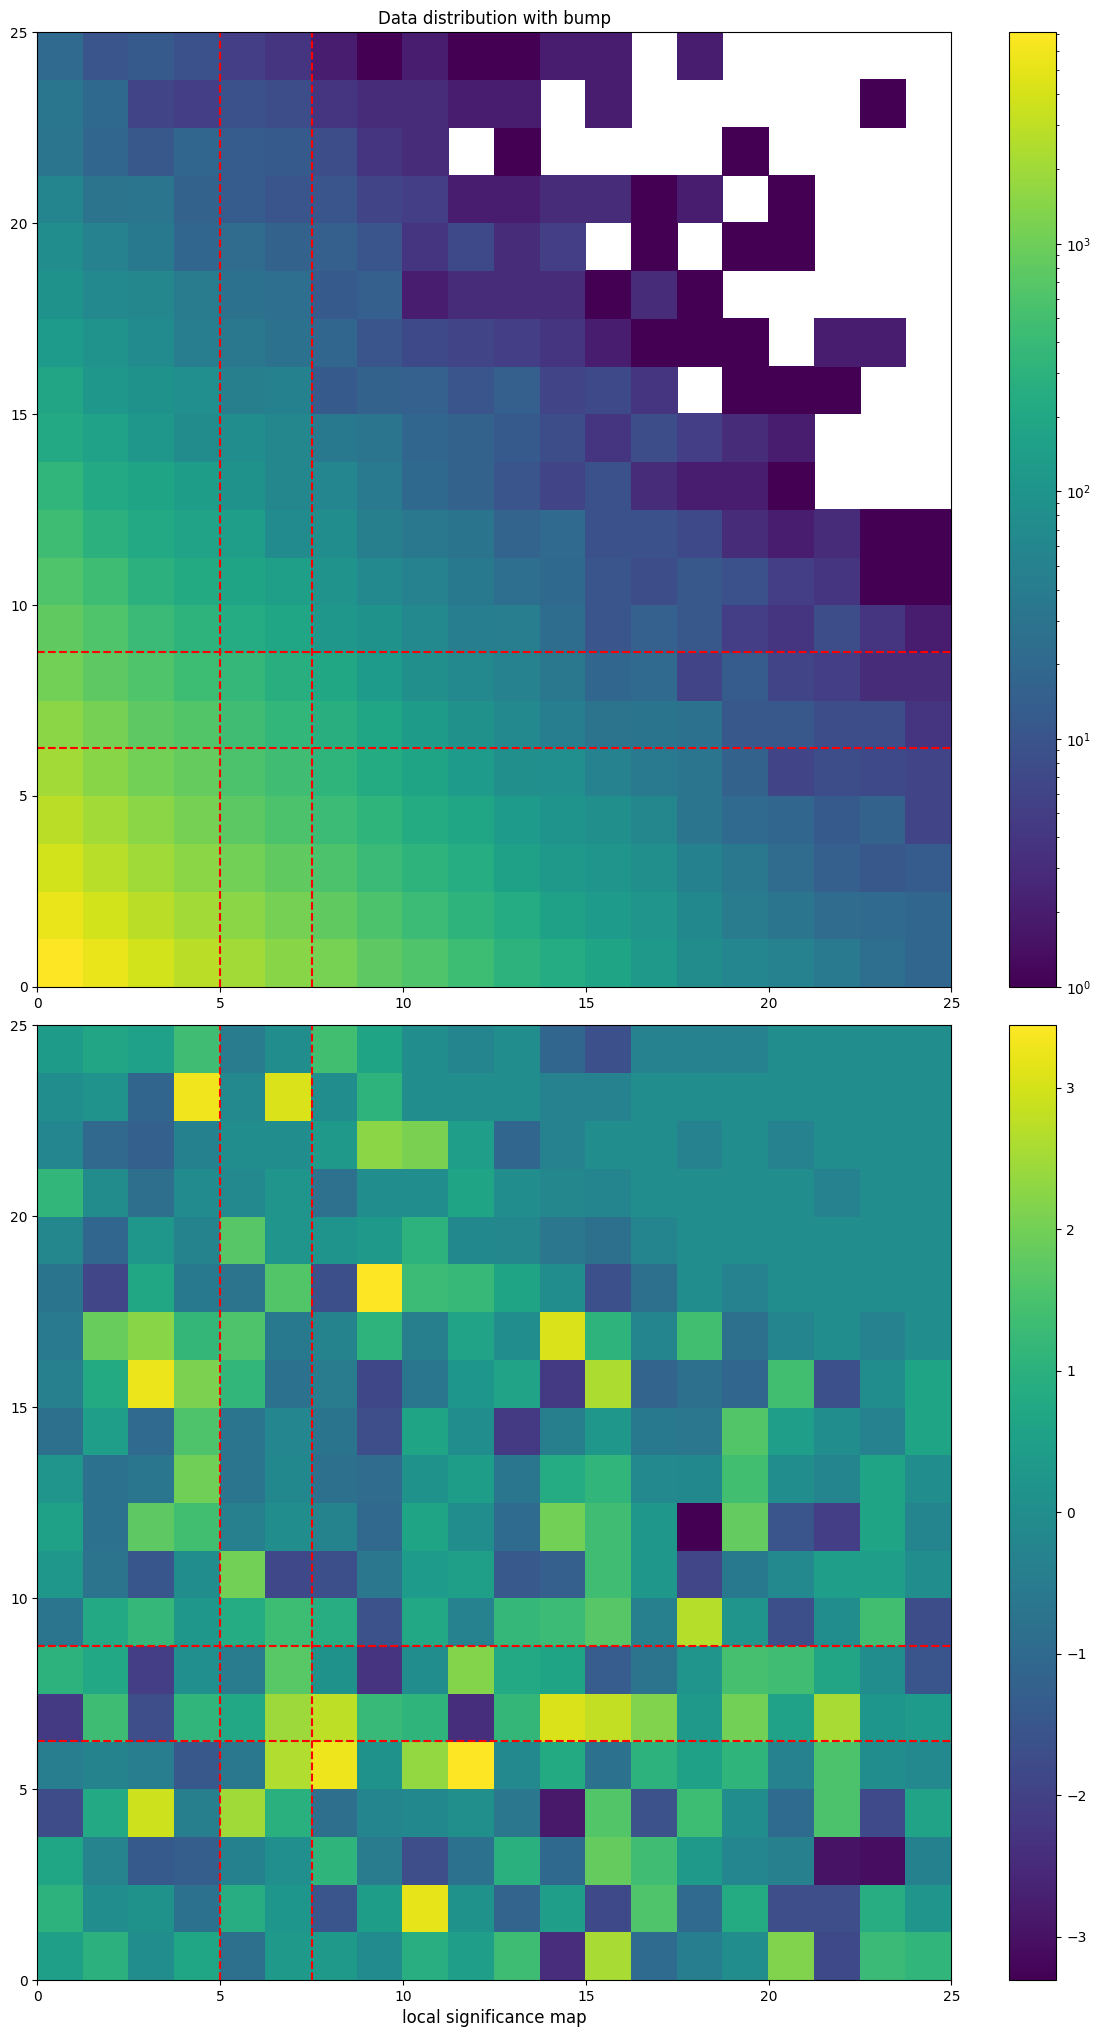
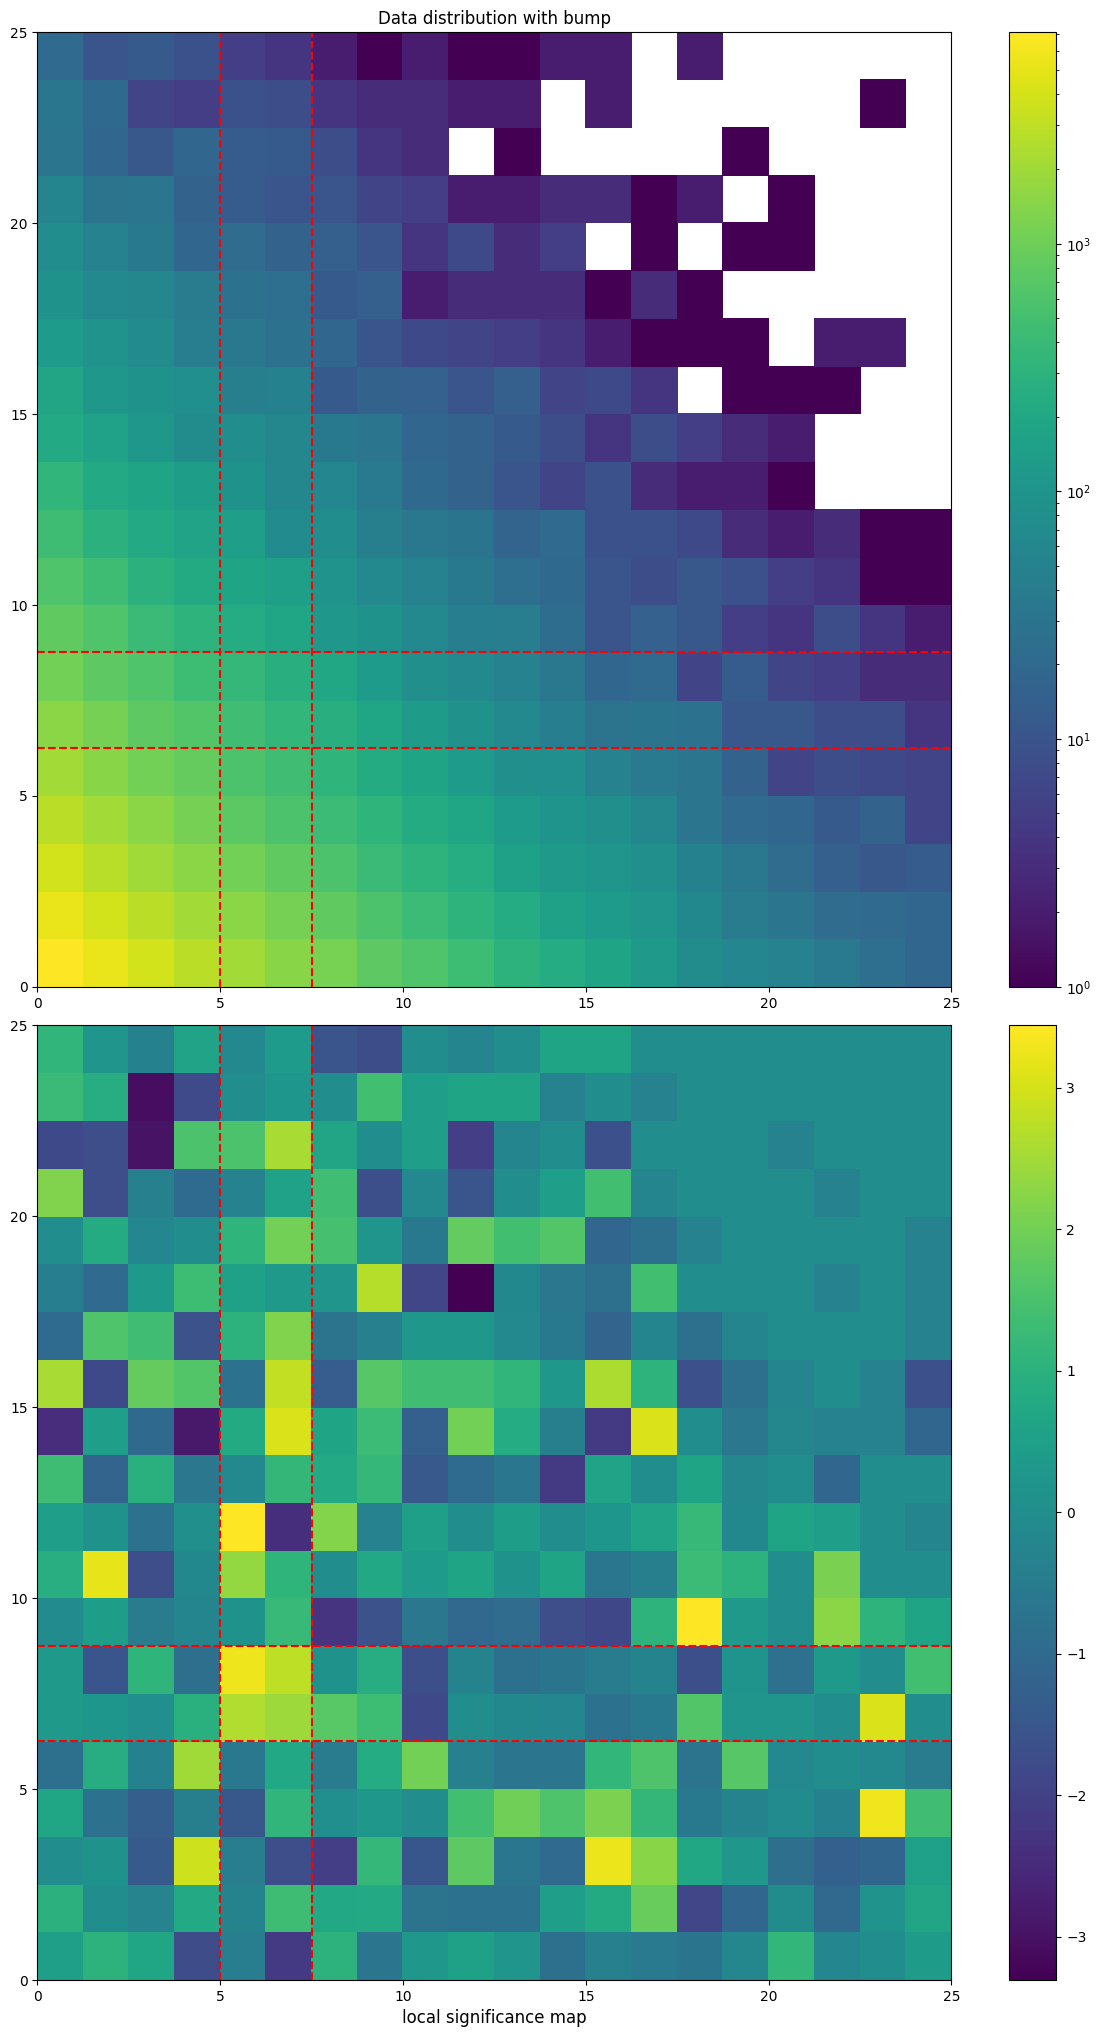
Fixed a bug in PLotBump (2D)

Changed region(s): [[0.0309, 0.4948, 0.8647, 0.9897]]

diff --git a/pyBumpHunter/BumpHunter2D.py b/pyBumpHunter/BumpHunter2D.py
@@ -941,14 +941,14 @@ class BumpHunter2D():
         if(is_hist is False):
             plt.hist2d(data[:,0],data[:,1],bins=H[1],range=self.rang,norm=mcl.LogNorm())
         else:
-            plt.colormesh(H[1][0],H[1][1],H[0],norm=mcl.LogNorm())
+            plt.pcolormesh(H[1][0],H[1][1],H[0].transpose(),norm=mcl.LogNorm())
         plt.colorbar()
         plt.hlines([Bminy,Bmaxy],H[1][0][0],H[1][0][-1],linestyles='dashed',color='r')
         plt.vlines([Bminx,Bmaxx],H[1][1][0],H[1][1][-1],linestyles='dashed',color='r')
         plt.tight_layout()
         
         plt.subplot(2,1,2)
-        plt.pcolormesh(H[1][0],H[1][1],sig)
+        plt.pcolormesh(H[1][0],H[1][1],sig.transpose())
         plt.colorbar()
         plt.hlines([Bminy,Bmaxy],H[1][0][0],H[1][0][-1],linestyles='dashed',color='r')
         plt.vlines([Bminx,Bmaxx],H[1][1][0],H[1][1][-1],linestyles='dashed',color='r')
